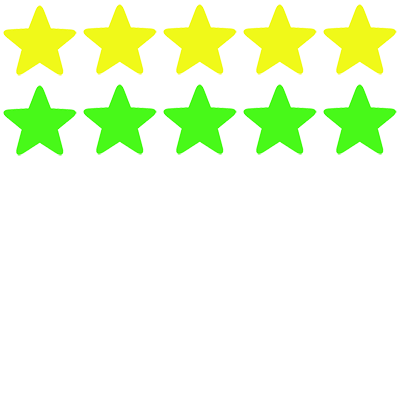
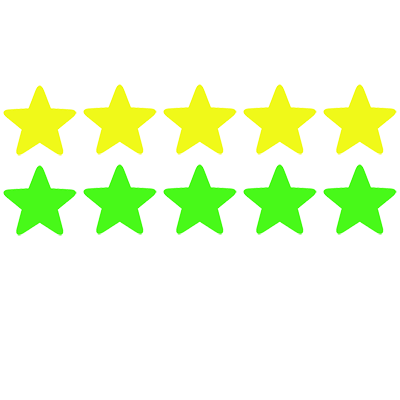
Update Games List Interface
Add Rating Bar and Description Box to Game Listings
Default rating 2.5 for Testing Purposes

Changed region(s): [[0.0, 0.39, 0.99, 0.6], [0.0, 0.0, 0.99, 0.21], [0.0, 0.21, 0.99, 0.39]]

diff --git a/index.html b/index.html
@@ -13,6 +13,7 @@
 
 <script type="text/javascript">
 $(document).ready(function() {
+	/* Test Code, Load from Database */
 	var params = {};
 	params['type'] = "query_game";
 	$.post("php/query.php",
@@ -22,15 +23,16 @@ $(document).ready(function() {
 			var result = $.parseJSON(response);
 			for(var i = 0; i < result.length; i++) {
 				html += "<div class=\"game-container\">";
-				html += "<div class=\"game-pic-container\">";
+				html += "<div class=\"game-header-container\">";
 				html += "<img class=\"game-pic\" src=\"" + result[i]["image"] + "\"></img>";
 				html += "<div class=\"game-title-container\">";
 				html += result[i]["title"];
 				html += "</div>";
 				html += "<div class=\"game-rating-container\">";
-				html += "<div class=\"game-rating\"><div class=\"game-rating-mask\" style=\"width:50%\"></div></div>";
-				/*html += "<img class=\"game-rating\" src=\"images/ratings.png\"></img>";*/
+				html += "<div class=\"game-rating\"></div>";
 				html += "</div>";
+				html += "</div>";
+				html += "<div class=\"game-body-container\">";
 				html += "</div>";
 				html += "</div>";
 			}
@@ -75,47 +77,6 @@ $(document).ready(function() {
 </div>
 
 <div class="content-container">
-
-<div class="game-container">
-	<div class="game-pic-container">
-		<img class="game-pic" src="http://cdn.steampowered.com/v/gfx/apps/440/header.jpg" />
-		<div class="game-title-container">
-			Team Fortress 2
-		</div>
-	</div>
-</div>
-<div class="game-container">
-	<div class="game-pic-container">
-		<img class="game-pic" src="http://cdn.steampowered.com/v/gfx/apps/105600/header.jpg" />
-		<div class="game-title-container">
-			Terraria
-		</div>
-	</div>
-</div>
-<div class="game-container">
-	<div class="game-pic-container">
-		<img class="game-pic" src="http://cdn.steampowered.com/v/gfx/apps/72850/header.jpg" />
-		<div class="game-title-container">
-			The Elder Scrools V: Skyrim
-		</div>
-	</div>
-</div>
-<div class="game-container">
-	<div class="game-pic-container">
-		<img class="game-pic" src="http://cdn.steampowered.com/v/gfx/apps/242050/header.jpg" />
-		<div class="game-title-container">
-			Assassin's Creed IV: Black Flag
-		</div>
-	</div>
-</div>
-<div class="game-container">
-	<div class="game-pic-container">
-		<img class="game-pic" src="http://cdn.steampowered.com/v/gfx/apps/209160/header.jpg" />
-		<div class="game-title-container">
-			Call of Duty: Ghosts
-		</div>
-	</div>
-</div>
 </div>
 </body>
 </html>

diff --git a/css/custom.css b/css/custom.css
@@ -11,8 +11,10 @@
 	background-color:#000000;
 	border-radius:9px;
 }
-.game-pic-container {
-	padding:8px;
+.game-header-container {
+	padding-top:8px;
+	padding-left:8px;
+	padding-right:8px;
 	width:inherit;
 }
 .game-pic {
@@ -28,22 +30,34 @@
 	font-size: 18px;
 }
 .game-rating-container {
-	width:100%;
-	height:calc(width * 0.1);
+	width:284px;
+	height:57px;
+	background-image: url('images/ratings_blank.png');
+	background-repeat:repeat-x;
+	background-size:contain;
+	overflow:hidden;
 }
 .game-rating {
-	background-image: url('images/ratings.png');
-	background-position: 0 -58;
-	background-repeat:no-repeat;
-	background-size:cover;
-	overflow:hidden;
-	width:284px;
-	height:60px;
+	width:100%;
+	height:100%;
+	padding-right:50%;
+	background: url('images/ratings_yellow.png');
+	background-repeat:repeat-x;
+	background-clip:content-box;
+	background-size:contain;
 }
-.game-rating-mask {
-	float:right;
-	height:80px;
-	background-color:#000000;
+.game-body-container {
+	margin-left:8px;
+	margin-right:8px;
+	margin-bottom:8px;
+	padding:5px;
+	width:284px;
+	height:169px;
+	background-color:#FFFFFF;
+	border-radius:9px;
+}
+.game-content-container {
+	
 }
 
 /*@media screen and (max-width: 325px) {
@@ -61,7 +75,7 @@
 		width:inherit;
 	}
 	.game-title-container {
-		font-size: 14px;
+		font-size: 13px;
 	}
 	.game-rating-container {
 		width:100%;
@@ -99,10 +113,13 @@
 	.game-title-container {
 		font-size:22px;
 	}
-	.game-rating {
-		background-position: 0 -76;
+	.game-rating-container {
 		width:384px;
 		height:80px;
+	}
+	.game-body-container {
+		width:384px;
+		height:227px;
 	}
 }
 @media screen and (min-width: 1655px) {
